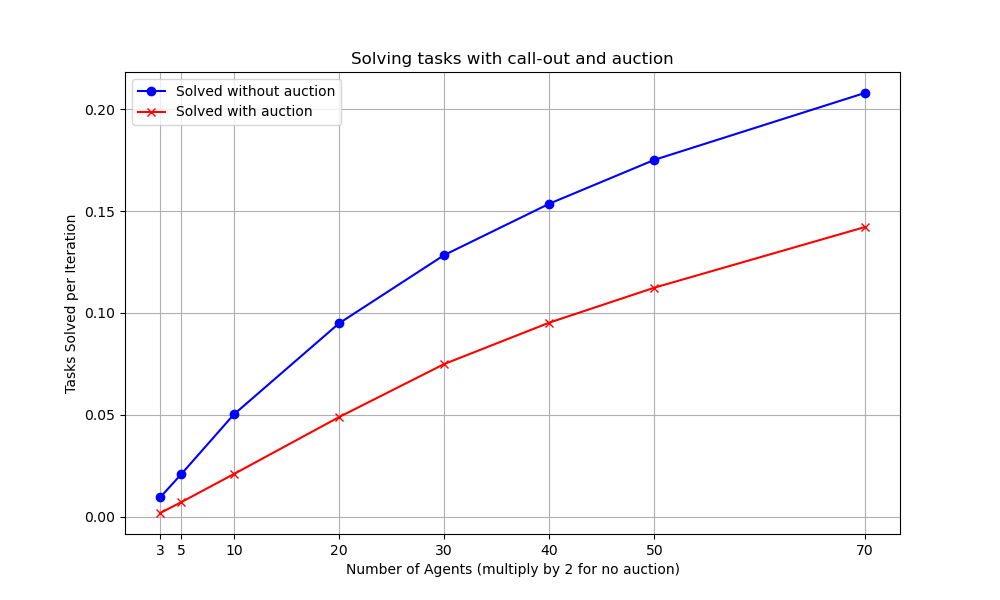
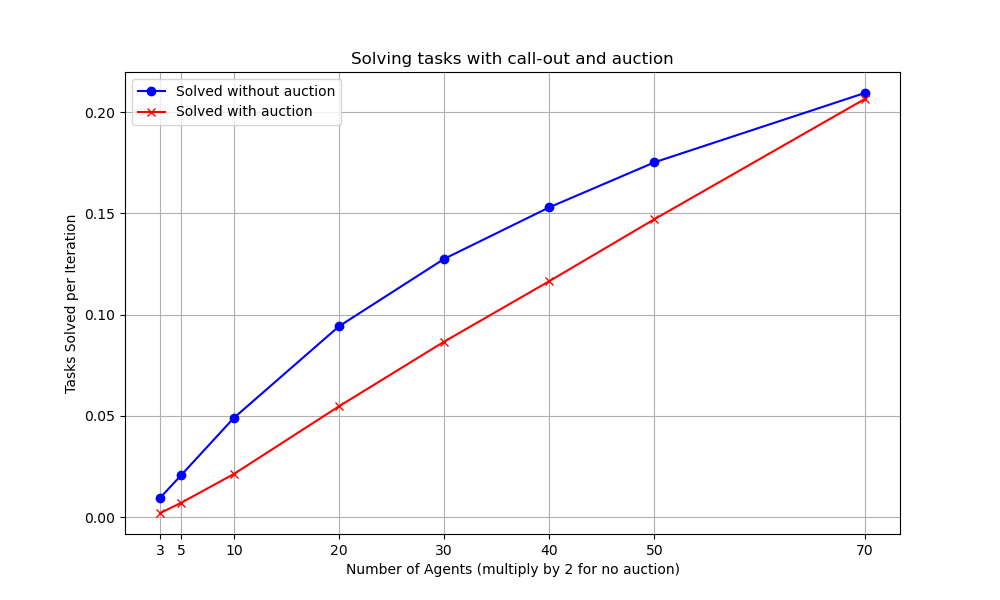
corrected simulation

diff --git a/main.py b/main.py
@@ -91,7 +91,7 @@ if __name__ == "__main__":
         tasks = [Task(capacity=capacity) for _ in range(num_tasks)]
         tasks_auction = [Task(capacity=capacity) for _ in range(num_tasks)]
         solv, _ = simulate(agents, tasks)
-        solv_auction, _ = simulate(agents_auction, tasks_auction)
+        solv_auction, _ = simulate_auction(agents_auction, tasks_auction)
         solved.append(solv)
         solved_auction.append(solv_auction)
 
